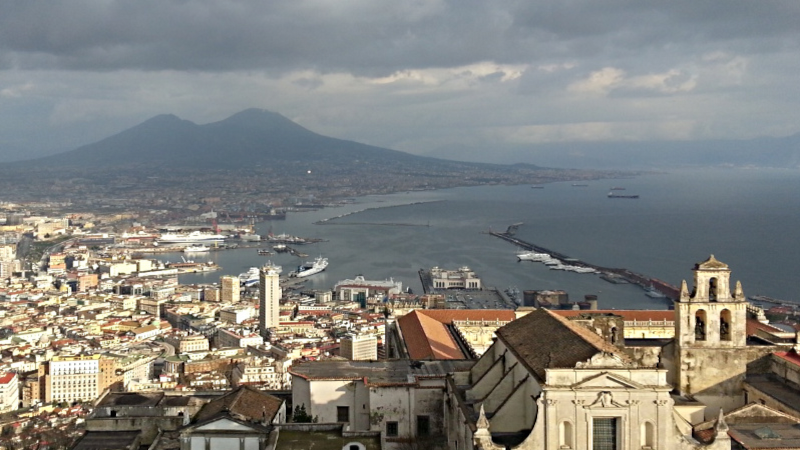
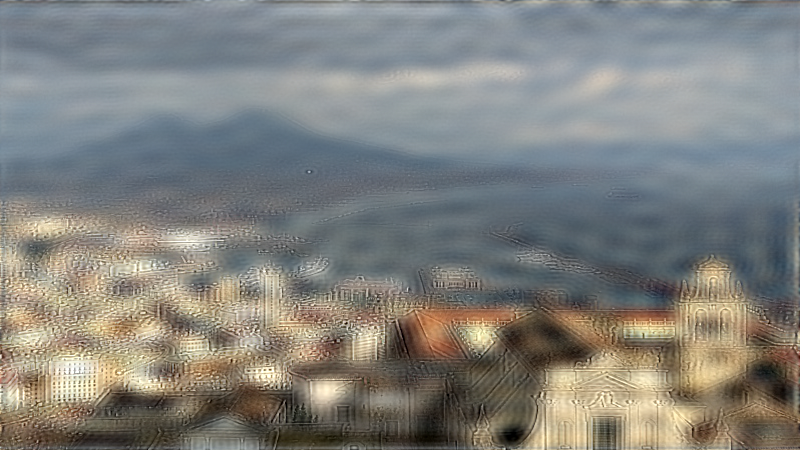
TD 3 finished

diff --git a/td3/src/fip.c b/td3/src/fip.c
@@ -44,9 +44,8 @@ void fip_as_cut(double* spectrum, int width, int height, int min, int max, int m
     for (int i = 0; i < height; i++) {
         for (int j = 0; j < width; j++) {
             double u = j - width / 2.;
-            double v = -i - height / 2.;
+            double v = i - height / 2.;
             double freq = sqrt(pow(u, 2) + pow(v, 2));
-            // printf("freq = %lf\n", freq);
 
             if (mode == 1)
                 spectrum[i * width + j] = min <= freq && freq <= max ? 0. : spectrum[i * width + j];

diff --git a/td3/README.md b/td3/README.md
@@ -4,18 +4,24 @@ Iantsa Provost & Bastien Soucasse – TI
 
 Pour compiler :
 
-```sh
+```
 make
 ```
 
 Pour nettoyer :
 
-```sh
+```
 make clean
+```
+
+Pour nettoyer et supprimer les rendus :
+
+```
+make reset
 ```
 
 Pour tester :
 
-```sh
+```
 make test
 ```
